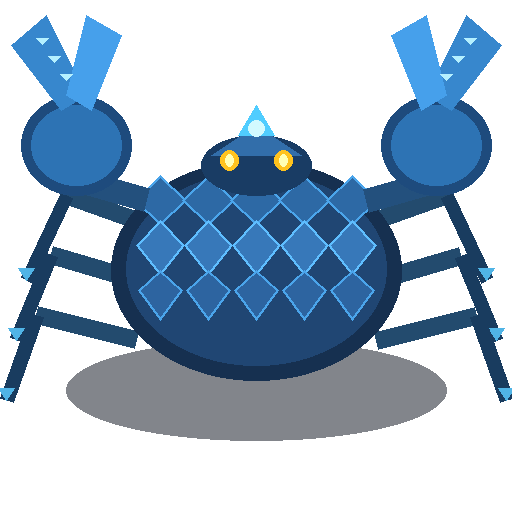
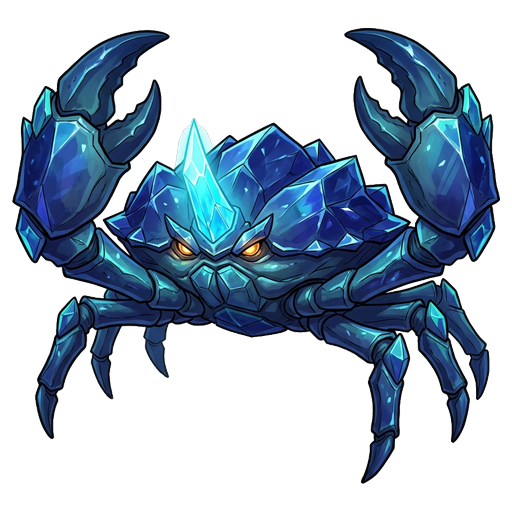
feat(lumaria): complete HD fantasy redesign for Lyra, enemies, bosses, and all 6 zones

diff --git a/tools/generate_store_media.py b/tools/generate_store_media.py
@@ -420,6 +420,7 @@ func _ready() -> void:
             "02-oakhaven-village.webp",
             "03-npc-dialogue.webp",
             "04-shrine-dungeon.webp",
+            "05-shallows-adventure.webp",
         ],
         "script": """extends Node
 
@@ -466,6 +467,14 @@ func _ready() -> void:
 \tawait _wait_frames(40)
 \tawait _snap("{OUT_DIR}/04.png")
 \tshrine.queue_free()
+\tawait _wait_frames(2)
+
+\t# 5. Versunkene Untiefen (Shallows Adventure)
+\tvar shallows := (load("res://scenes/world/shallows.tscn") as PackedScene).instantiate()
+\tadd_child(shallows)
+\tawait _wait_frames(40)
+\tawait _snap("{OUT_DIR}/05.png")
+\tshallows.queue_free()
 \tawait _wait_frames(2)
 \tget_tree().quit(0)
 """,

diff --git a/lumaria/CREDITS.md b/lumaria/CREDITS.md
@@ -13,25 +13,26 @@ Dieses Spiel verwendet ausschließlich frei nutzbare Assets unter permissiven Op
 | **Dorf-Hintergrund** (`assets/environments/oakhaven_village.png`) | Antigravity AI Image Generation | Eigene Generierung / CC0 | Oberwelt Oakhaven Dorfplatz (1920×1080) |
 | **Held Kaelen Sprites** (`assets/characters/player/*.png`) | Antigravity AI Image Generation | Eigene Generierung / CC0 | 4-Wege-Charaktersprites (Down, Up, Left, Right, Attack) |
 | **Tonkrüge & Kristalle** (`assets/objects/*.png`) | Antigravity AI Image Generation | Eigene Generierung / CC0 | Zerstörbare Krüge und sammelbare Lumen-Kristalle |
-| **Grasbüschel & Vitalitäts-Splitter** (`assets/objects/*.png`) | Antigravity AI Image Generation | Eigene Generierung / CC0 | Zerstörbares Gras und heilende Vitalitäts-Splitter |
+| **Grasbüschel & Kristall-Sphären-HUD** (`assets/objects/grass_tuft.png`, `assets/ui/*.png`, `assets/vfx/soft_shadow.png`) | Antigravity Digital Art Studio | Eigene Erstellung / CC0 | Zerstörbares Gras, 5-Stufen-Kristallsphären, HUD-/Gadget-Icons & weiche Bodenschatten |
 | **Schwert-Schwung-Effekt** (`assets/vfx/sword_slash_arc.png`) | Antigravity AI Image Generation | Eigene Generierung / CC0 | Prisma-Klingen-Schwung-Arc und Licht-VFX |
 | **NPC-Porträts** (`assets/portraits/*.png`) | Antigravity AI Image Generation | Eigene Generierung / CC0 | Charakterporträts (Morwen, Thalon, Lyra) |
-| **NPC-Figuren** (`assets/characters/npcs/*.png`) | Antigravity AI Image Generation | Eigene Generierung / CC0 | Oberwelt-Sprites für Dorfälteste, Schmied & Alchemistin |
-| **Gegner-Figuren** (`assets/characters/enemies/*.png`) | Antigravity Digital Art Studio | Eigene Erstellung / CC0 | Moos-Scout, Dornen-Spucker & Knochen-Krieger |
+| **NPC-Figuren** (`assets/characters/npcs/*.png`) | Antigravity AI Image Generation | Eigene Generierung / CC0 | Ganzfigurige Oberwelt-Sprites für Dorfälteste, Schmied & Alchemistin |
+| **Gegner-Figuren** (`assets/characters/enemies/{moss_scout,thorn_spitter,bone_warrior}.png`) | Antigravity AI Image Generation | Eigene Generierung / CC0 | HD-Fantasy-Sprites für Moos-Scout, Dornen-Spucker & Knochen-Krieger (256×256) |
 | **Prisma-Bumerang & Projektile** (`assets/objects/*.png`, `assets/projectiles/*.png`) | Antigravity Digital Art Studio | Eigene Erstellung / CC0 | Prisma-Bumerang und Säure-Projektile |
-| **Dungeon-Hintergrund** (`assets/environments/shrine_roots_bg.png`) | Antigravity Digital Art Studio | Eigene Erstellung / CC0 | Wurzel-Schrein Dungeonboden, Wände & Wasserläufe (1920×1080) |
+| **Dungeon-Hintergrund Wurzel-Schrein** (`assets/environments/shrine_roots_bg.png`) | Antigravity AI Image Generation | Eigene Generierung / CC0 | Wurzel-Schrein Dungeonboden, Wände & Wasserläufe (1920×1080) |
 | **Dungeon-Objekte & Truhen** (`assets/objects/*.png`) | Antigravity Digital Art Studio | Eigene Erstellung / CC0 | Kristallschalter, Eisentore, Boss-Tore, Schatzkisten (offen/zu) & Schlüssel |
-| **Boss Floragorg & Wurzel-Spikes** (`assets/characters/enemies/boss_*.png`, `assets/objects/root_spike.png`) | Antigravity Digital Art Studio | Eigene Erstellung / CC0 | Urwald-Koloss Floragorg (512×512) & bodenbrechende Ranken-Spikes |
+| **Boss Floragorg & Wurzel-Spikes** (`assets/characters/enemies/boss_floragorg.png`, `assets/objects/root_spike.png`) | Antigravity AI Image Generation / Digital Art Studio | Eigene Generierung / CC0 | Urwald-Koloss Floragorg (512×512) & bodenbrechende Ranken-Spikes |
 | **Sonnen-Prisma** (`assets/objects/sun_prism.png`) | Antigravity Digital Art Studio | Eigene Erstellung / CC0 | Erstes Spektral-Prisma (Sonnen-Prisma) als Dungeon-Trophäe |
-| **Flüsternde Untiefen & Klingen-Krypta** (`assets/environments/shallows_bg.png`, `assets/environments/crypt_blade_bg.png`) | Antigravity Digital Art Studio | Eigene Erstellung / CC0 | Küstenlagune & versunkene Klingen-Festung (1920×1080) |
+| **Flüsternde Untiefen & Klingen-Krypta** (`assets/environments/shallows_bg.png`, `assets/environments/crypt_blade_bg.png`) | Antigravity AI Image Generation | Eigene Generierung / CC0 | Küstenlagune & versunkene Klingen-Festung (1920×1080) |
 | **Fangseil-Posten & Greifhaken** (`assets/objects/tether_post.png`, `assets/objects/tether_hook.png`) | Antigravity Digital Art Studio | Eigene Erstellung / CC0 | Ankerpfahl & kinetischer Greifhaken-Kopf |
 | **Stachelfallen & Gezeiten-Prisma** (`assets/objects/spike_trap.png`, `assets/objects/tide_prism.png`) | Antigravity Digital Art Studio | Eigene Erstellung / CC0 | Bodengleiche Klingenstachel-Fallen & 2. Spektral-Prisma |
-| **Boss Carapax** (`assets/characters/enemies/boss_carapax.png`) | Antigravity Digital Art Studio | Eigene Erstellung / CC0 | Kristall-Panzerkrabbler Carapax (512×512) |
-| **Donnerplateau, Sturm-Bastion & Turm des Ewigen Prismas** (`assets/environments/*_bg.png`) | Antigravity Digital Art Studio | Eigene Erstellung / CC0 | Hochgebirge, Himmelsfestung & Obsidiandom-Kathedrale (1920×1080) |
+| **Boss Carapax** (`assets/characters/enemies/boss_carapax.png`) | Antigravity AI Image Generation | Eigene Generierung / CC0 | Kristall-Panzerkrabbler Carapax (512×512) |
+| **Donnerplateau & Sturm-Bastion** (`assets/environments/plateau_bg.png`, `assets/environments/bastion_wind_bg.png`) | Antigravity AI Image Generation | Eigene Generierung / CC0 | Hochgebirge & Himmelsfestung (1920×1080) |
+| **Turm des Ewigen Prismas** (`assets/environments/tower_eternal_bg.png`) | Antigravity Digital Art Studio | Eigene Erstellung / CC0 | Astronomische Obsidian-Kathedrale (Vektor-/Prozedural-Grafik, 1920×1080) |
 | **Schall-Bomben, Rissige Wände & Winddüsen** (`assets/objects/*.png`) | Antigravity Digital Art Studio | Eigene Erstellung / CC0 | Akustische Resonanzbombe, brüchiges Mauerwerk & Turbinen-Winddüsen |
 | **Sturm-Prisma & Ewiges Prisma** (`assets/objects/*_prism.png`) | Antigravity Digital Art Studio | Eigene Erstellung / CC0 | 3. Spektral-Prisma (Smaragd-Tempest) & 4. vollendetes Regenbogen-Urprisma |
-| **Boss Zephyros & Endboss Malakor** (`assets/characters/enemies/boss_*.png`) | Antigravity Digital Art Studio | Eigene Erstellung / CC0 | Himmels-Raubvogel Zephyros (512×512) & dimensionaler Rissfürst Malakor (512×512) |
-| **Wegweiser & Holzschilder** (`assets/objects/signpost.png`) | Antigravity Digital Art Studio | Eigene Erstellung / CC0 | Richtungs-Wegweiser an den Toren von Oakhaven |
+| **Boss Zephyros & Endboss Malakor** (`assets/characters/enemies/boss_{zephyros,malakor}.png`) | Antigravity AI Image Generation | Eigene Generierung / CC0 | Sturmgreif Zephyros (512×512) & Rissfürst Malakor (512×512) |
+| **Wegweiser & Holzschilder** (`assets/objects/signpost.png`) | Antigravity Digital Art Studio | Eigene Erstellung / CC0 | Hochauflösende Richtungs-Wegweiser an den Toren von Oakhaven |
 | **Soundeffekte** | Kenney Game Audio (Kenney.nl) | CC0 1.0 Universal | Schwertschlag, Treffer, Schritte, Menü-Klicks, Dialog-Blips |
 
 ## Code & Framework

diff --git a/lumaria/README.md b/lumaria/README.md
@@ -4,7 +4,7 @@ Modernes 2D-Action-Adventure (Top-Down-RPG) mit Godot 4.7 (GDScript) für Linux,
 Vollkommen eigenständige Welt und Lore – modern, hochauflösend und **ohne Pixel-Art** mit lebendigen 4-Wege-Bewegungsanimationen.
 
 ## Status
-* **Version:** `v1.0.1` (Vollständig spielbar, alle Meilensteine M0–M8 abgeschlossen: Grundgerüst, 4-Wege-Bewegungsanimationen, Schwertkombo & 360°-Wirbelattacke, Aegis-Schildblock & Timing-Parry, Oakhaven mit 3 NPCs & zweisprachigem Dialogsystem, 3 Standard-Gegner mit KI, 4 funktionale Gadgets: Prisma-Bumerang, Kinetisches Fangseil, Schall-Bomben mit Kettenreaktionen & Prisma-Bogen über Alchemistin Lyra, 3-Slot-Speichersystem via `SaveService`, Dungeon 1: Wurzel-Schrein & Boss Floragorg, Oberwelt: Flüsternde Untiefen, Dungeon 2: Klingen-Krypta & Boss Carapax, Oberwelt: Donnerplateau, Dungeon 3: Sturm-Bastion mit Wind-Turbinen & Boss Zephyros, Showdown: Turm des Ewigen Prismas mit Multitool-Prüfungen & 3-Phasen-Endboss Malakor, Sieges-Bildschirm mit Epilog & Heldenstatistiken, atmosphärische Musik-Soundtracks & SFX, begehbare Zonen-Ausgänge ohne Kollisions-Engpässe, vollständige Exporte für Linux, Windows und Web)
+* **Version:** `v1.1.0` (Vollständig spielbar, M0–M8 + umfassendes HD-Grafik- & Gameplay-Update: sauber freigestellte 4-Wege-Kaelen-Sprites inkl. Rückenansicht, ganzfigurige HD-NPCs für Morwen, Thalon & Lyra, neu gestaltete HD-Gegner & alle 4 Bosse mit weichen Bodenschatten, 6 überarbeitete 1920×1080-Gebiets-Hintergründe, Leucht-Kristallsphären-HUD, lokalisierte `[Q]`/`[R]`-Gadget-Anzeige, begehbare Oakhaven-Wege mit abgestimmten Wegweisern & Kollidern, korrigierte Portal-Spawns, echtes Schadensmodell/Parry-System, Y-Sorting sowie Pausen-/Game-Over-Overlays in allen 7 Weltszenen)
 * **Plan:** [plans/07_lumaria.md](../plans/07_lumaria.md)
 
 ## Steuerung
